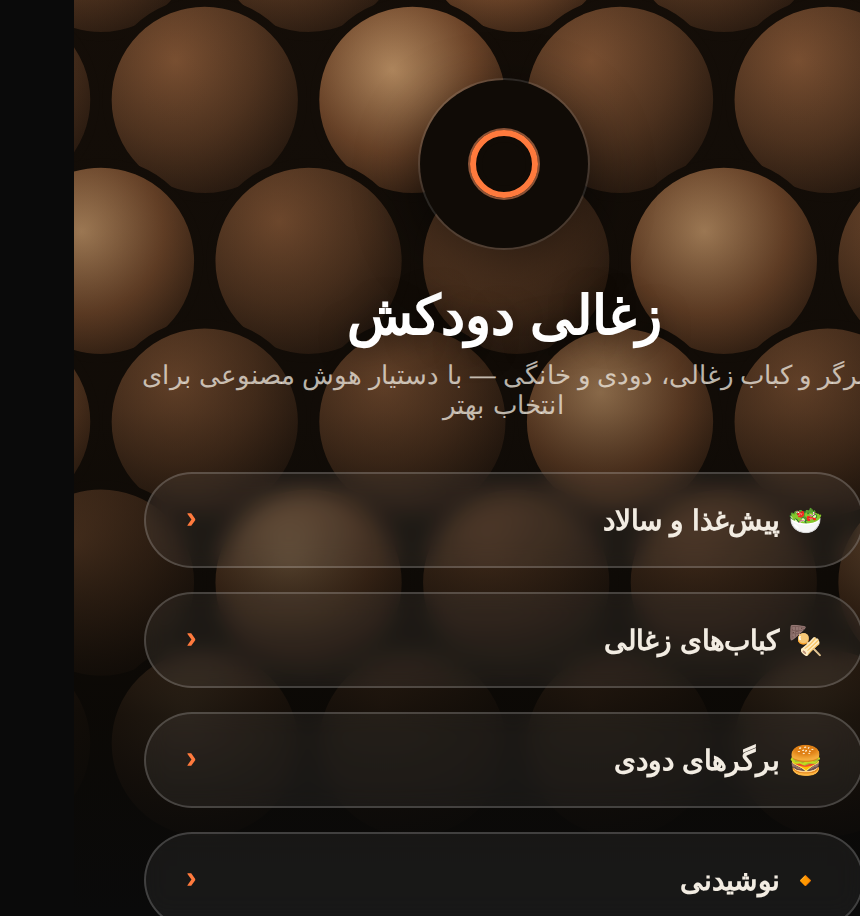
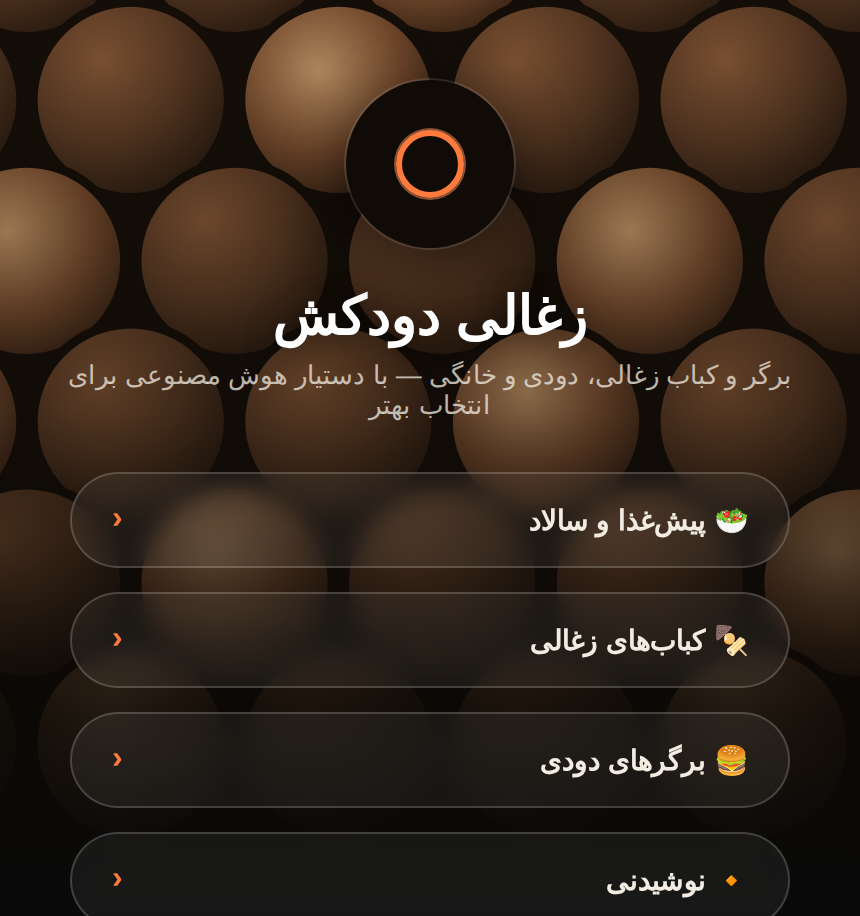
Add files via upload

diff --git a/portfolio/templates/zoghali-noir/menu.html b/portfolio/templates/zoghali-noir/menu.html
@@ -29,7 +29,7 @@
   }
 
   *{ box-sizing: border-box; }
-  html,body{ margin:0; padding:0; }
+  html,body{ margin:0; padding:0; overflow-x:hidden; max-width:100%; }
   .hidden{ display:none !important; }
   body{
     background: var(--bg);
@@ -189,15 +189,20 @@
   .menu-search-input:focus{ border-color: var(--amber); }
   .search-empty{ text-align:center; color:var(--chalk-dim); padding-top:40px; font-size:13.5px; }
 
-  /* ---------- vertical floating category rail ---------- */
+  /* ---------- vertical floating category rail ----------
+     top بهصورت جاوااسکریپتی (positionCatsNav) بر اساس ارتفاع واقعی
+     هدر محاسبه میشه، چون طول اسم/تگلاین کافه متغیره و روی گوشیهای
+     مختلف هدر ارتفاع متفاوتی میگیره؛ عدد ثابت باعث رویهمافتادگی میشد. */
   nav.cats{
     position: fixed;
-    top: 210px; bottom: 108px; right: 12px;
+    top: 210px; bottom: 108px;
+    right: calc(max(12px, env(safe-area-inset-right, 0px)) + max(0px, (100vw - 640px)/2));
     z-index: 25;
     display:flex; flex-direction:column; gap:10px;
     overflow-y:auto;
     scrollbar-width: none;
     padding: 2px;
+    transition: top .15s ease;
   }
   nav.cats::-webkit-scrollbar{ display:none; }
   nav.cats a{
@@ -335,7 +340,7 @@
 
   /* ---------- chat launcher (left, unaffected by sidebar) ---------- */
   .chat-btn{
-    position: fixed; bottom: 20px; left: 20px;
+    position: fixed; bottom: 20px; left: calc(20px + max(0px, (100vw - 640px)/2));
     width:54px; height:54px; border-radius:50%;
     background: var(--bg-panel); color: var(--amber);
     border: 1px solid var(--line);
@@ -436,7 +441,7 @@
 
   /* ---------- cart ---------- */
   .cart-btn{
-    position: fixed; bottom: 20px; right: 20px;
+    position: fixed; bottom: 20px; right: calc(20px + max(0px, (100vw - 640px)/2));
     width:54px; height:54px; border-radius:50%;
     background: linear-gradient(135deg, var(--amber), #C2461C); color: #0A0A0A;
     border: none;
@@ -791,7 +796,37 @@ async function loadMenu(){
   renderNav();
   renderMenu();
   setupSplash();
+  positionCatsNav();
+  // بعد از رندر کامل و بارگذاری فونت، یه بار دیگه هم چک میکنیم چون
+  // عرض اسم/تگلاین واقعی ممکنه ارتفاع هدر رو نسبت به حالت placeholder عوض کنه.
+  requestAnimationFrame(() => requestAnimationFrame(positionCatsNav));
 }
+
+// ریل شناور دستهبندی رو دقیقاً زیر باکس جستجو میچینه، نه با عدد ثابت؛
+// چون روی گوشیهای باریکتر یا اسم/تگلاین بلندتر، هدر ارتفاع بیشتری میگیره
+// و عدد ثابت باعث میشد ریل روی متن هدر بیفته.
+// همچنین right رو نسبت به لبهی راست ستون محتوا (main، که حداکثر 640px و
+// وسطچینشده) حساب میکنه، نه لبهی راست کل مرورگر؛ وگرنه روی ویندوز/دسکتاپ
+// با پنجرهی عریض، ریل از محتوا فاصله میگرفت و انگار جدا افتاده بود.
+function positionCatsNav(){
+  const nav = document.getElementById('catsNav');
+  const searchWrap = document.querySelector('.menu-search-wrap');
+  const main = document.getElementById('menuRoot');
+  if (!nav || !searchWrap) return;
+  const bottom = searchWrap.getBoundingClientRect().bottom;
+  nav.style.top = Math.max(120, Math.round(bottom + 10)) + 'px';
+
+  if (main){
+    const mainRect = main.getBoundingClientRect();
+    const viewportW = window.innerWidth;
+    const gapFromMainEdge = 12; // فاصلهی کوچیک تا لبهی راست ستون محتوا
+    const rightOffset = Math.max(12, Math.round(viewportW - mainRect.right + gapFromMainEdge));
+    nav.style.right = rightOffset + 'px';
+  }
+}
+window.addEventListener('resize', positionCatsNav);
+window.addEventListener('orientationchange', () => setTimeout(positionCatsNav, 200));
+document.fonts && document.fonts.ready && document.fonts.ready.then(positionCatsNav).catch(()=>{});
 
 // حدس ایموجی مناسب برای هر دسته، بر اساس کلیدواژههای موجود در اسمش
 function catIcon(title){

diff --git a/portfolio/templates/modern-grid/menu.html b/portfolio/templates/modern-grid/menu.html
@@ -27,7 +27,7 @@
   }
 
   *{ box-sizing: border-box; }
-  html,body{ margin:0; padding:0; }
+  html,body{ margin:0; padding:0; overflow-x:hidden; max-width:100%; }
   .hidden{ display:none !important; }
   body{
     background: var(--bg);
@@ -294,7 +294,7 @@
 
   /* ---------- chat launcher ---------- */
   .chat-btn{
-    position: fixed; bottom: 20px; left: 20px;
+    position: fixed; bottom: 20px; left: calc(20px + max(0px, (100vw - 640px)/2));
     width:56px; height:56px; border-radius:50%;
     background: var(--amber); color: var(--accent-ink);
     border:none; cursor:pointer;
@@ -416,7 +416,7 @@
 
   /* ---------- cart launcher ---------- */
   .cart-btn{
-    position: fixed; bottom: 20px; right: 20px;
+    position: fixed; bottom: 20px; right: calc(20px + max(0px, (100vw - 640px)/2));
     width:56px; height:56px; border-radius:50%;
     background: var(--bg-panel-2); color: var(--chalk);
     border: 1.5px solid var(--amber);

diff --git a/portfolio/templates/classic-receipt/menu.html b/portfolio/templates/classic-receipt/menu.html
@@ -30,7 +30,7 @@
   }
 
   *{ box-sizing: border-box; }
-  html,body{ margin:0; padding:0; }
+  html,body{ margin:0; padding:0; overflow-x:hidden; max-width:100%; }
   .hidden{ display:none !important; }
   body{
     background: var(--bg);
@@ -277,7 +277,7 @@
 
   /* ---------- chat launcher ---------- */
   .chat-btn{
-    position: fixed; bottom: 20px; left: 20px;
+    position: fixed; bottom: 20px; left: calc(20px + max(0px, (100vw - 640px)/2));
     width:54px; height:54px; border-radius:50%;
     background: var(--bg-panel); color: var(--amber);
     border: 2px dashed var(--amber);
@@ -408,7 +408,7 @@
 
   /* ---------- cart launcher ---------- */
   .cart-btn{
-    position: fixed; bottom: 20px; right: 20px;
+    position: fixed; bottom: 20px; right: calc(20px + max(0px, (100vw - 640px)/2));
     width:54px; height:54px; border-radius:50%;
     background: var(--bg-panel); color: var(--chalk);
     border: 2px dashed var(--amber);

diff --git a/portfolio/templates/classic-menu/menu.html b/portfolio/templates/classic-menu/menu.html
@@ -25,7 +25,7 @@
   }
 
   *{ box-sizing: border-box; }
-  html,body{ margin:0; padding:0; }
+  html,body{ margin:0; padding:0; overflow-x:hidden; max-width:100%; }
   .hidden{ display:none !important; }
   body{
     background: var(--bg);
@@ -273,7 +273,7 @@
 
   /* ---------- chat launcher ---------- */
   .chat-btn{
-    position: fixed; bottom: 20px; left: 20px;
+    position: fixed; bottom: 20px; left: calc(20px + max(0px, (100vw - 640px)/2));
     width:56px; height:56px; border-radius:50%;
     background: var(--amber); color: var(--bg);
     border:none; cursor:pointer;
@@ -395,7 +395,7 @@
 
   /* ---------- cart launcher ---------- */
   .cart-btn{
-    position: fixed; bottom: 20px; right: 20px;
+    position: fixed; bottom: 20px; right: calc(20px + max(0px, (100vw - 640px)/2));
     width:56px; height:56px; border-radius:50%;
     background: var(--bg-panel-2); color: var(--chalk);
     border: 1.5px solid var(--amber);

diff --git a/portfolio/templates/restaurant-classic/menu.html b/portfolio/templates/restaurant-classic/menu.html
@@ -27,7 +27,7 @@
   }
 
   *{ box-sizing: border-box; }
-  html,body{ margin:0; padding:0; }
+  html,body{ margin:0; padding:0; overflow-x:hidden; max-width:100%; }
   .hidden{ display:none !important; }
   body{
     background: var(--bg);
@@ -269,7 +269,7 @@
 
   /* ---------- chat launcher ---------- */
   .chat-btn{
-    position: fixed; bottom: 20px; left: 20px;
+    position: fixed; bottom: 20px; left: calc(20px + max(0px, (100vw - 640px)/2));
     width:56px; height:56px; border-radius:50%;
     background: var(--amber); color: var(--bg);
     border:none; cursor:pointer;
@@ -391,7 +391,7 @@
 
   /* ---------- cart launcher ---------- */
   .cart-btn{
-    position: fixed; bottom: 20px; right: 20px;
+    position: fixed; bottom: 20px; right: calc(20px + max(0px, (100vw - 640px)/2));
     width:56px; height:56px; border-radius:50%;
     background: var(--bg-panel-2); color: var(--chalk);
     border: 1.5px solid var(--amber);

diff --git a/portfolio/templates/salon-studio/menu.html b/portfolio/templates/salon-studio/menu.html
@@ -27,7 +27,7 @@
   }
 
   *{ box-sizing: border-box; }
-  html,body{ margin:0; padding:0; }
+  html,body{ margin:0; padding:0; overflow-x:hidden; max-width:100%; }
   .hidden{ display:none !important; }
   body{
     background: var(--bg);
@@ -262,7 +262,7 @@
 
   /* ---------- chat launcher ---------- */
   .chat-btn{
-    position: fixed; bottom: 20px; left: 20px;
+    position: fixed; bottom: 20px; left: calc(20px + max(0px, (100vw - 640px)/2));
     width:56px; height:56px; border-radius:50%;
     background: var(--amber); color: var(--bg);
     border:none; cursor:pointer;
@@ -384,7 +384,7 @@
 
   /* ---------- cart launcher ---------- */
   .cart-btn{
-    position: fixed; bottom: 20px; right: 20px;
+    position: fixed; bottom: 20px; right: calc(20px + max(0px, (100vw - 640px)/2));
     width:56px; height:56px; border-radius:50%;
     background: var(--bg-panel-2); color: var(--chalk);
     border: 1.5px solid var(--amber);

diff --git a/portfolio/templates/shop-lookbook/menu.html b/portfolio/templates/shop-lookbook/menu.html
@@ -27,7 +27,7 @@
   }
 
   *{ box-sizing: border-box; }
-  html,body{ margin:0; padding:0; }
+  html,body{ margin:0; padding:0; overflow-x:hidden; max-width:100%; }
   .hidden{ display:none !important; }
   body{
     background: var(--bg);
@@ -269,7 +269,7 @@
 
   /* ---------- chat launcher ---------- */
   .chat-btn{
-    position: fixed; bottom: 20px; left: 20px;
+    position: fixed; bottom: 20px; left: calc(20px + max(0px, (100vw - 640px)/2));
     width:56px; height:56px; border-radius:50%;
     background: var(--amber); color: var(--bg);
     border:none; cursor:pointer;
@@ -391,7 +391,7 @@
 
   /* ---------- cart launcher ---------- */
   .cart-btn{
-    position: fixed; bottom: 20px; right: 20px;
+    position: fixed; bottom: 20px; right: calc(20px + max(0px, (100vw - 640px)/2));
     width:56px; height:56px; border-radius:50%;
     background: var(--bg-panel-2); color: var(--chalk);
     border: 1.5px solid var(--amber);

diff --git a/portfolio/templates/shop-storefront/menu.html b/portfolio/templates/shop-storefront/menu.html
@@ -27,7 +27,7 @@
   }
 
   *{ box-sizing: border-box; }
-  html,body{ margin:0; padding:0; }
+  html,body{ margin:0; padding:0; overflow-x:hidden; max-width:100%; }
   .hidden{ display:none !important; }
   body{
     background: var(--bg);
@@ -266,7 +266,7 @@
 
   /* ---------- chat launcher ---------- */
   .chat-btn{
-    position: fixed; bottom: 20px; left: 20px;
+    position: fixed; bottom: 20px; left: calc(20px + max(0px, (100vw - 640px)/2));
     width:56px; height:56px; border-radius:50%;
     background: var(--amber); color: var(--bg);
     border:none; cursor:pointer;
@@ -388,7 +388,7 @@
 
   /* ---------- cart launcher ---------- */
   .cart-btn{
-    position: fixed; bottom: 20px; right: 20px;
+    position: fixed; bottom: 20px; right: calc(20px + max(0px, (100vw - 640px)/2));
     width:56px; height:56px; border-radius:50%;
     background: var(--bg-panel-2); color: var(--chalk);
     border: 1.5px solid var(--amber);

diff --git a/portfolio/templates/fastfood-combo/menu.html b/portfolio/templates/fastfood-combo/menu.html
@@ -29,7 +29,7 @@
   }
 
   *{ box-sizing: border-box; }
-  html,body{ margin:0; padding:0; }
+  html,body{ margin:0; padding:0; overflow-x:hidden; max-width:100%; }
   .hidden{ display:none !important; }
   body{
     background: var(--bg);
@@ -246,7 +246,7 @@
 
   /* ---------- chat launcher ---------- */
   .chat-btn{
-    position: fixed; bottom: 20px; left: 20px;
+    position: fixed; bottom: 20px; left: calc(20px + max(0px, (100vw - 640px)/2));
     width:56px; height:56px; border-radius:50%;
     background: var(--rust); color: #fff;
     border: 3px solid var(--amber);
@@ -355,7 +355,7 @@
 
   /* ---------- cart ---------- */
   .cart-btn{
-    position: fixed; bottom: 20px; right: 20px;
+    position: fixed; bottom: 20px; right: calc(20px + max(0px, (100vw - 640px)/2));
     width:56px; height:56px; border-radius:50%;
     background: var(--amber); color: #191410;
     border: 3px solid var(--rust);

diff --git a/portfolio/templates/barber-classic/menu.html b/portfolio/templates/barber-classic/menu.html
@@ -30,7 +30,7 @@
   }
 
   *{ box-sizing: border-box; }
-  html,body{ margin:0; padding:0; }
+  html,body{ margin:0; padding:0; overflow-x:hidden; max-width:100%; }
   .hidden{ display:none !important; }
   body{
     background: var(--bg);
@@ -231,7 +231,7 @@
 
   /* ---------- chat launcher ---------- */
   .chat-btn{
-    position: fixed; bottom: 20px; left: 20px;
+    position: fixed; bottom: 20px; left: calc(20px + max(0px, (100vw - 640px)/2));
     width:54px; height:54px; border-radius:50%;
     background: var(--bg-panel); color: var(--amber);
     border: 1px solid var(--amber);
@@ -340,7 +340,7 @@
 
   /* ---------- cart ---------- */
   .cart-btn{
-    position: fixed; bottom: 20px; right: 20px;
+    position: fixed; bottom: 20px; right: calc(20px + max(0px, (100vw - 640px)/2));
     width:54px; height:54px; border-radius:50%;
     background: var(--amber); color: var(--bg);
     border: none;

diff --git a/portfolio/templates/clinic-appointment/menu.html b/portfolio/templates/clinic-appointment/menu.html
@@ -29,7 +29,7 @@
   }
 
   *{ box-sizing: border-box; }
-  html,body{ margin:0; padding:0; }
+  html,body{ margin:0; padding:0; overflow-x:hidden; max-width:100%; }
   .hidden{ display:none !important; }
   body{
     background: var(--bg);
@@ -239,7 +239,7 @@
 
   /* ---------- chat launcher ---------- */
   .chat-btn{
-    position: fixed; bottom: 20px; left: 20px;
+    position: fixed; bottom: 20px; left: calc(20px + max(0px, (100vw - 640px)/2));
     width:54px; height:54px; border-radius:16px;
     background: var(--bg-panel); color: var(--amber);
     border: 1px solid var(--line);
@@ -349,7 +349,7 @@
 
   /* ---------- cart ---------- */
   .cart-btn{
-    position: fixed; bottom: 20px; right: 20px;
+    position: fixed; bottom: 20px; right: calc(20px + max(0px, (100vw - 640px)/2));
     width:54px; height:54px; border-radius:16px;
     background: var(--amber); color: #fff;
     border: none;

diff --git a/portfolio/templates/carwash-shine/menu.html b/portfolio/templates/carwash-shine/menu.html
@@ -29,7 +29,7 @@
   }
 
   *{ box-sizing: border-box; }
-  html,body{ margin:0; padding:0; }
+  html,body{ margin:0; padding:0; overflow-x:hidden; max-width:100%; }
   .hidden{ display:none !important; }
   body{
     background: var(--bg);
@@ -247,7 +247,7 @@
 
   /* ---------- chat launcher ---------- */
   .chat-btn{
-    position: fixed; bottom: 20px; left: 20px;
+    position: fixed; bottom: 20px; left: calc(20px + max(0px, (100vw - 640px)/2));
     width:54px; height:54px; border-radius:50%;
     background: #fff; color: var(--amber);
     border: 1px solid var(--line);
@@ -357,7 +357,7 @@
 
   /* ---------- cart ---------- */
   .cart-btn{
-    position: fixed; bottom: 20px; right: 20px;
+    position: fixed; bottom: 20px; right: calc(20px + max(0px, (100vw - 640px)/2));
     width:54px; height:54px; border-radius:50%;
     background: var(--amber); color: #fff;
     border: none;
